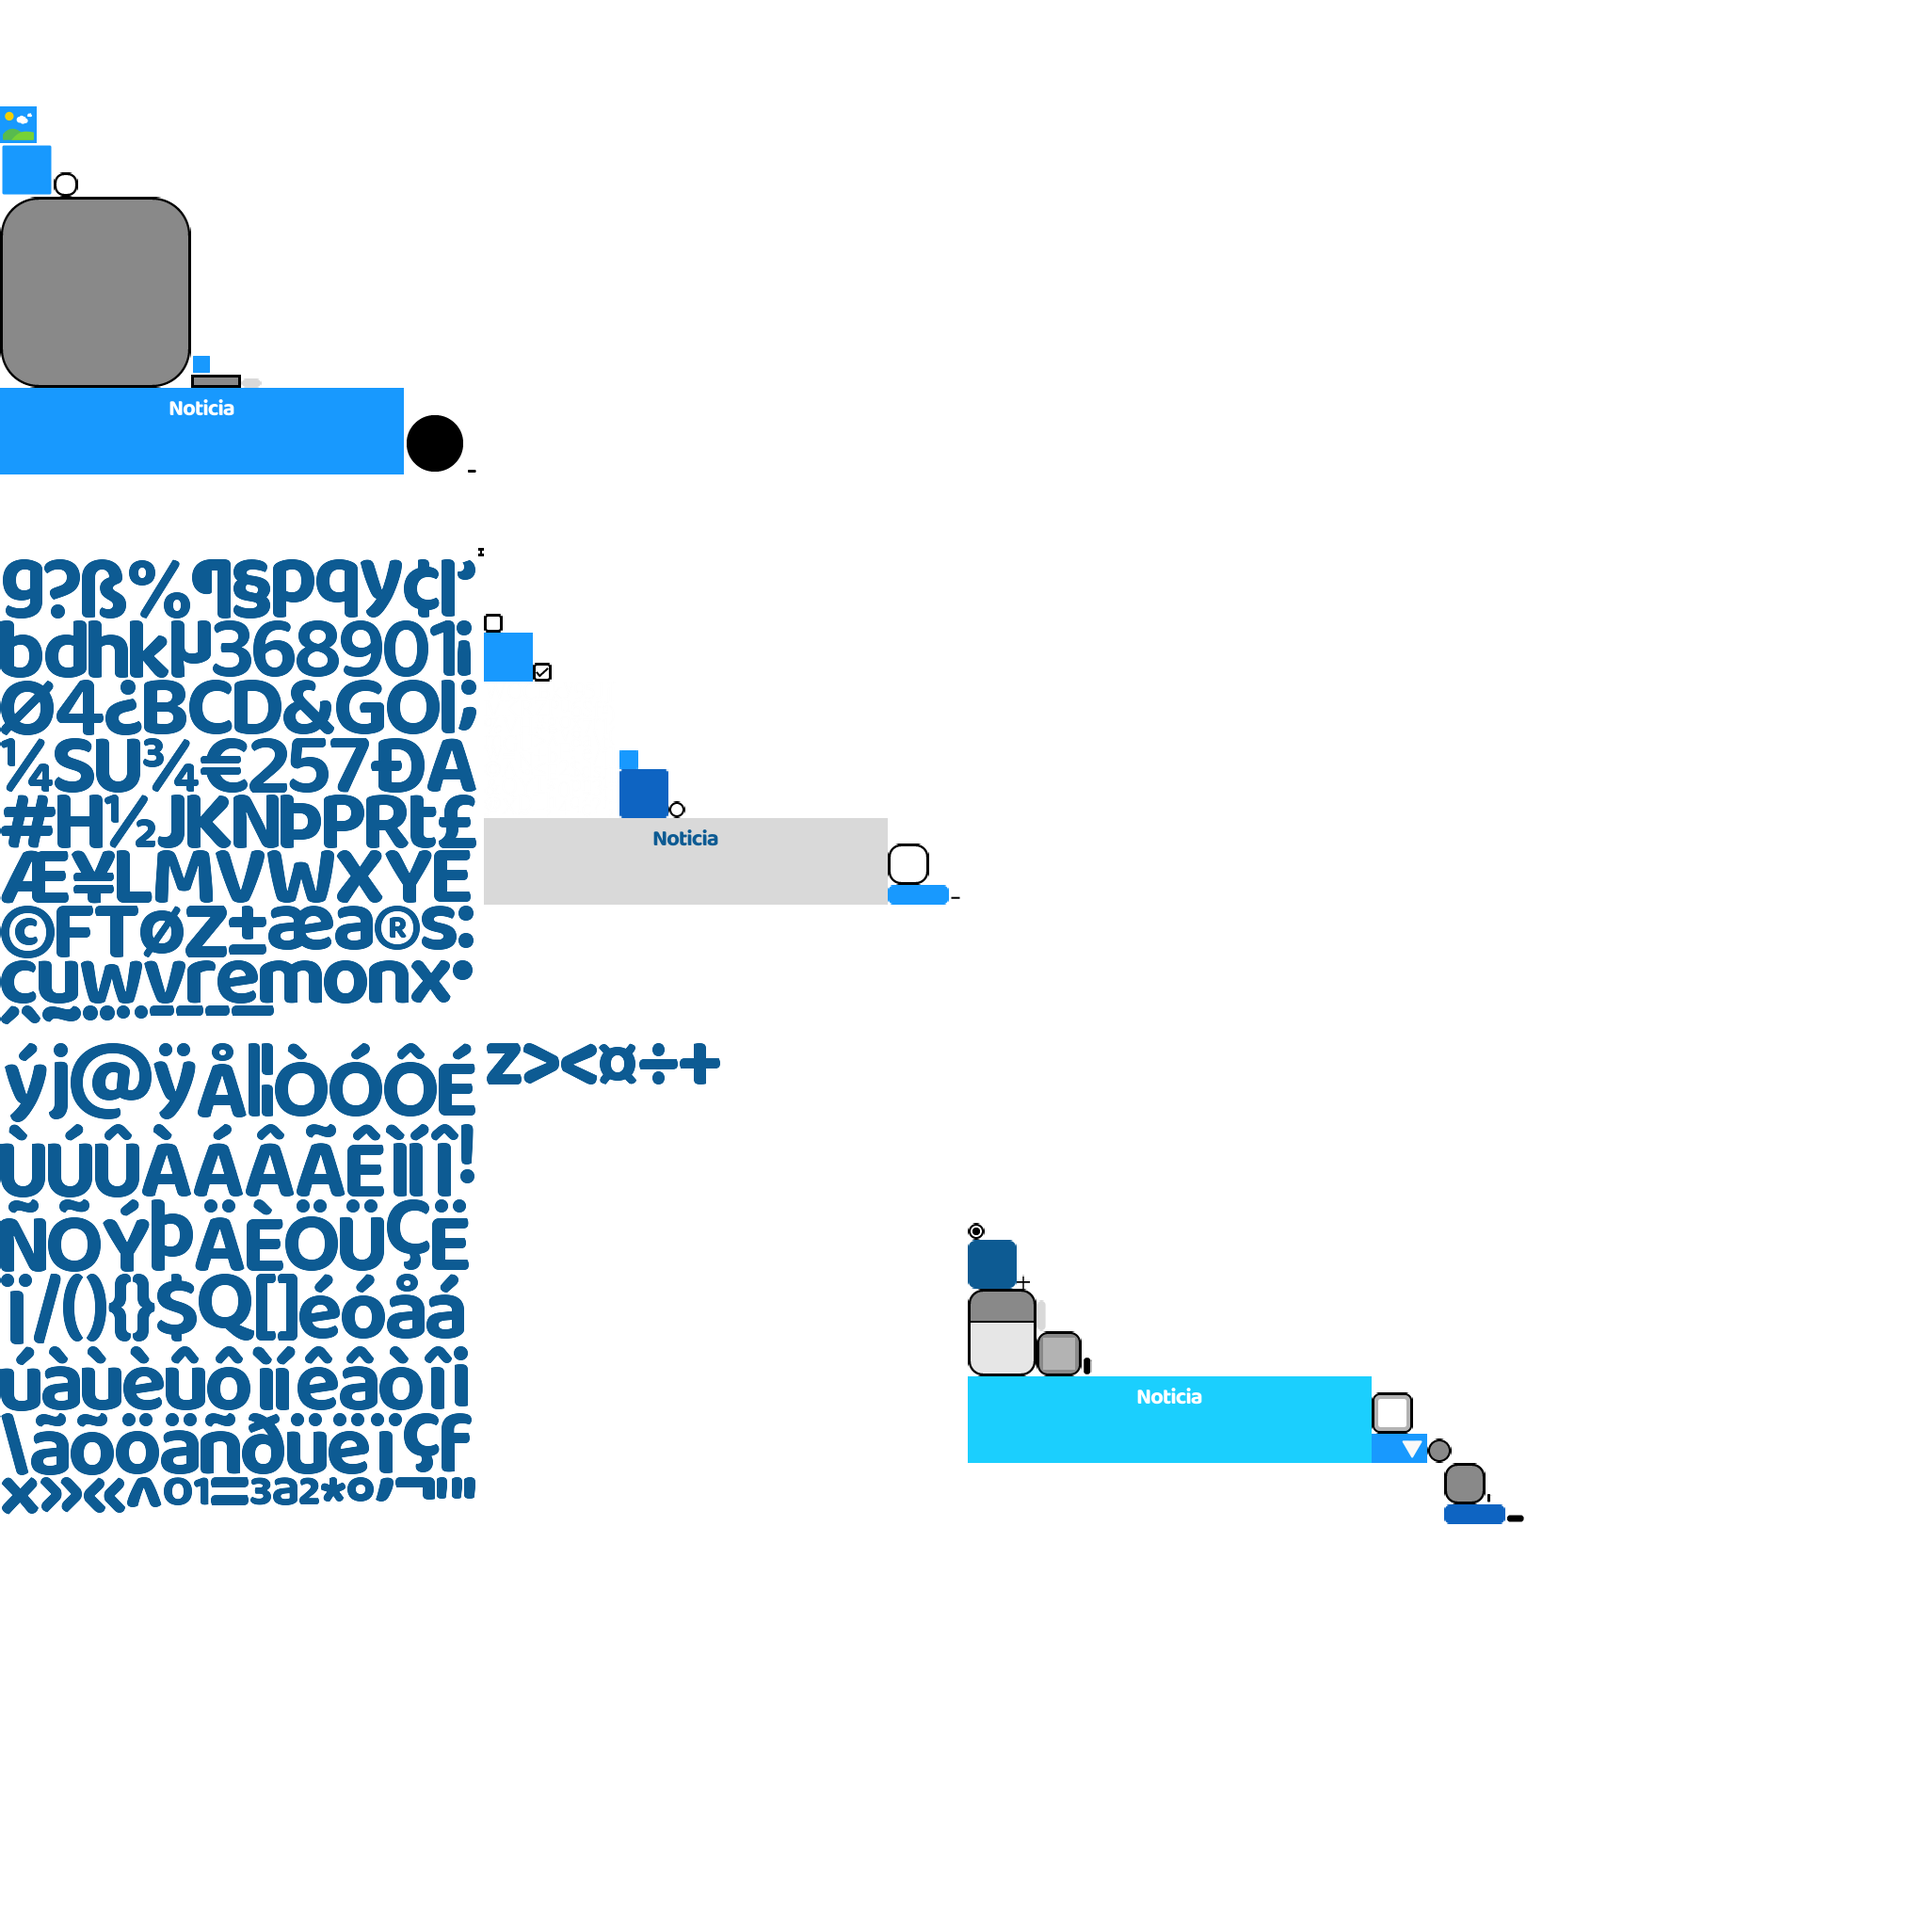
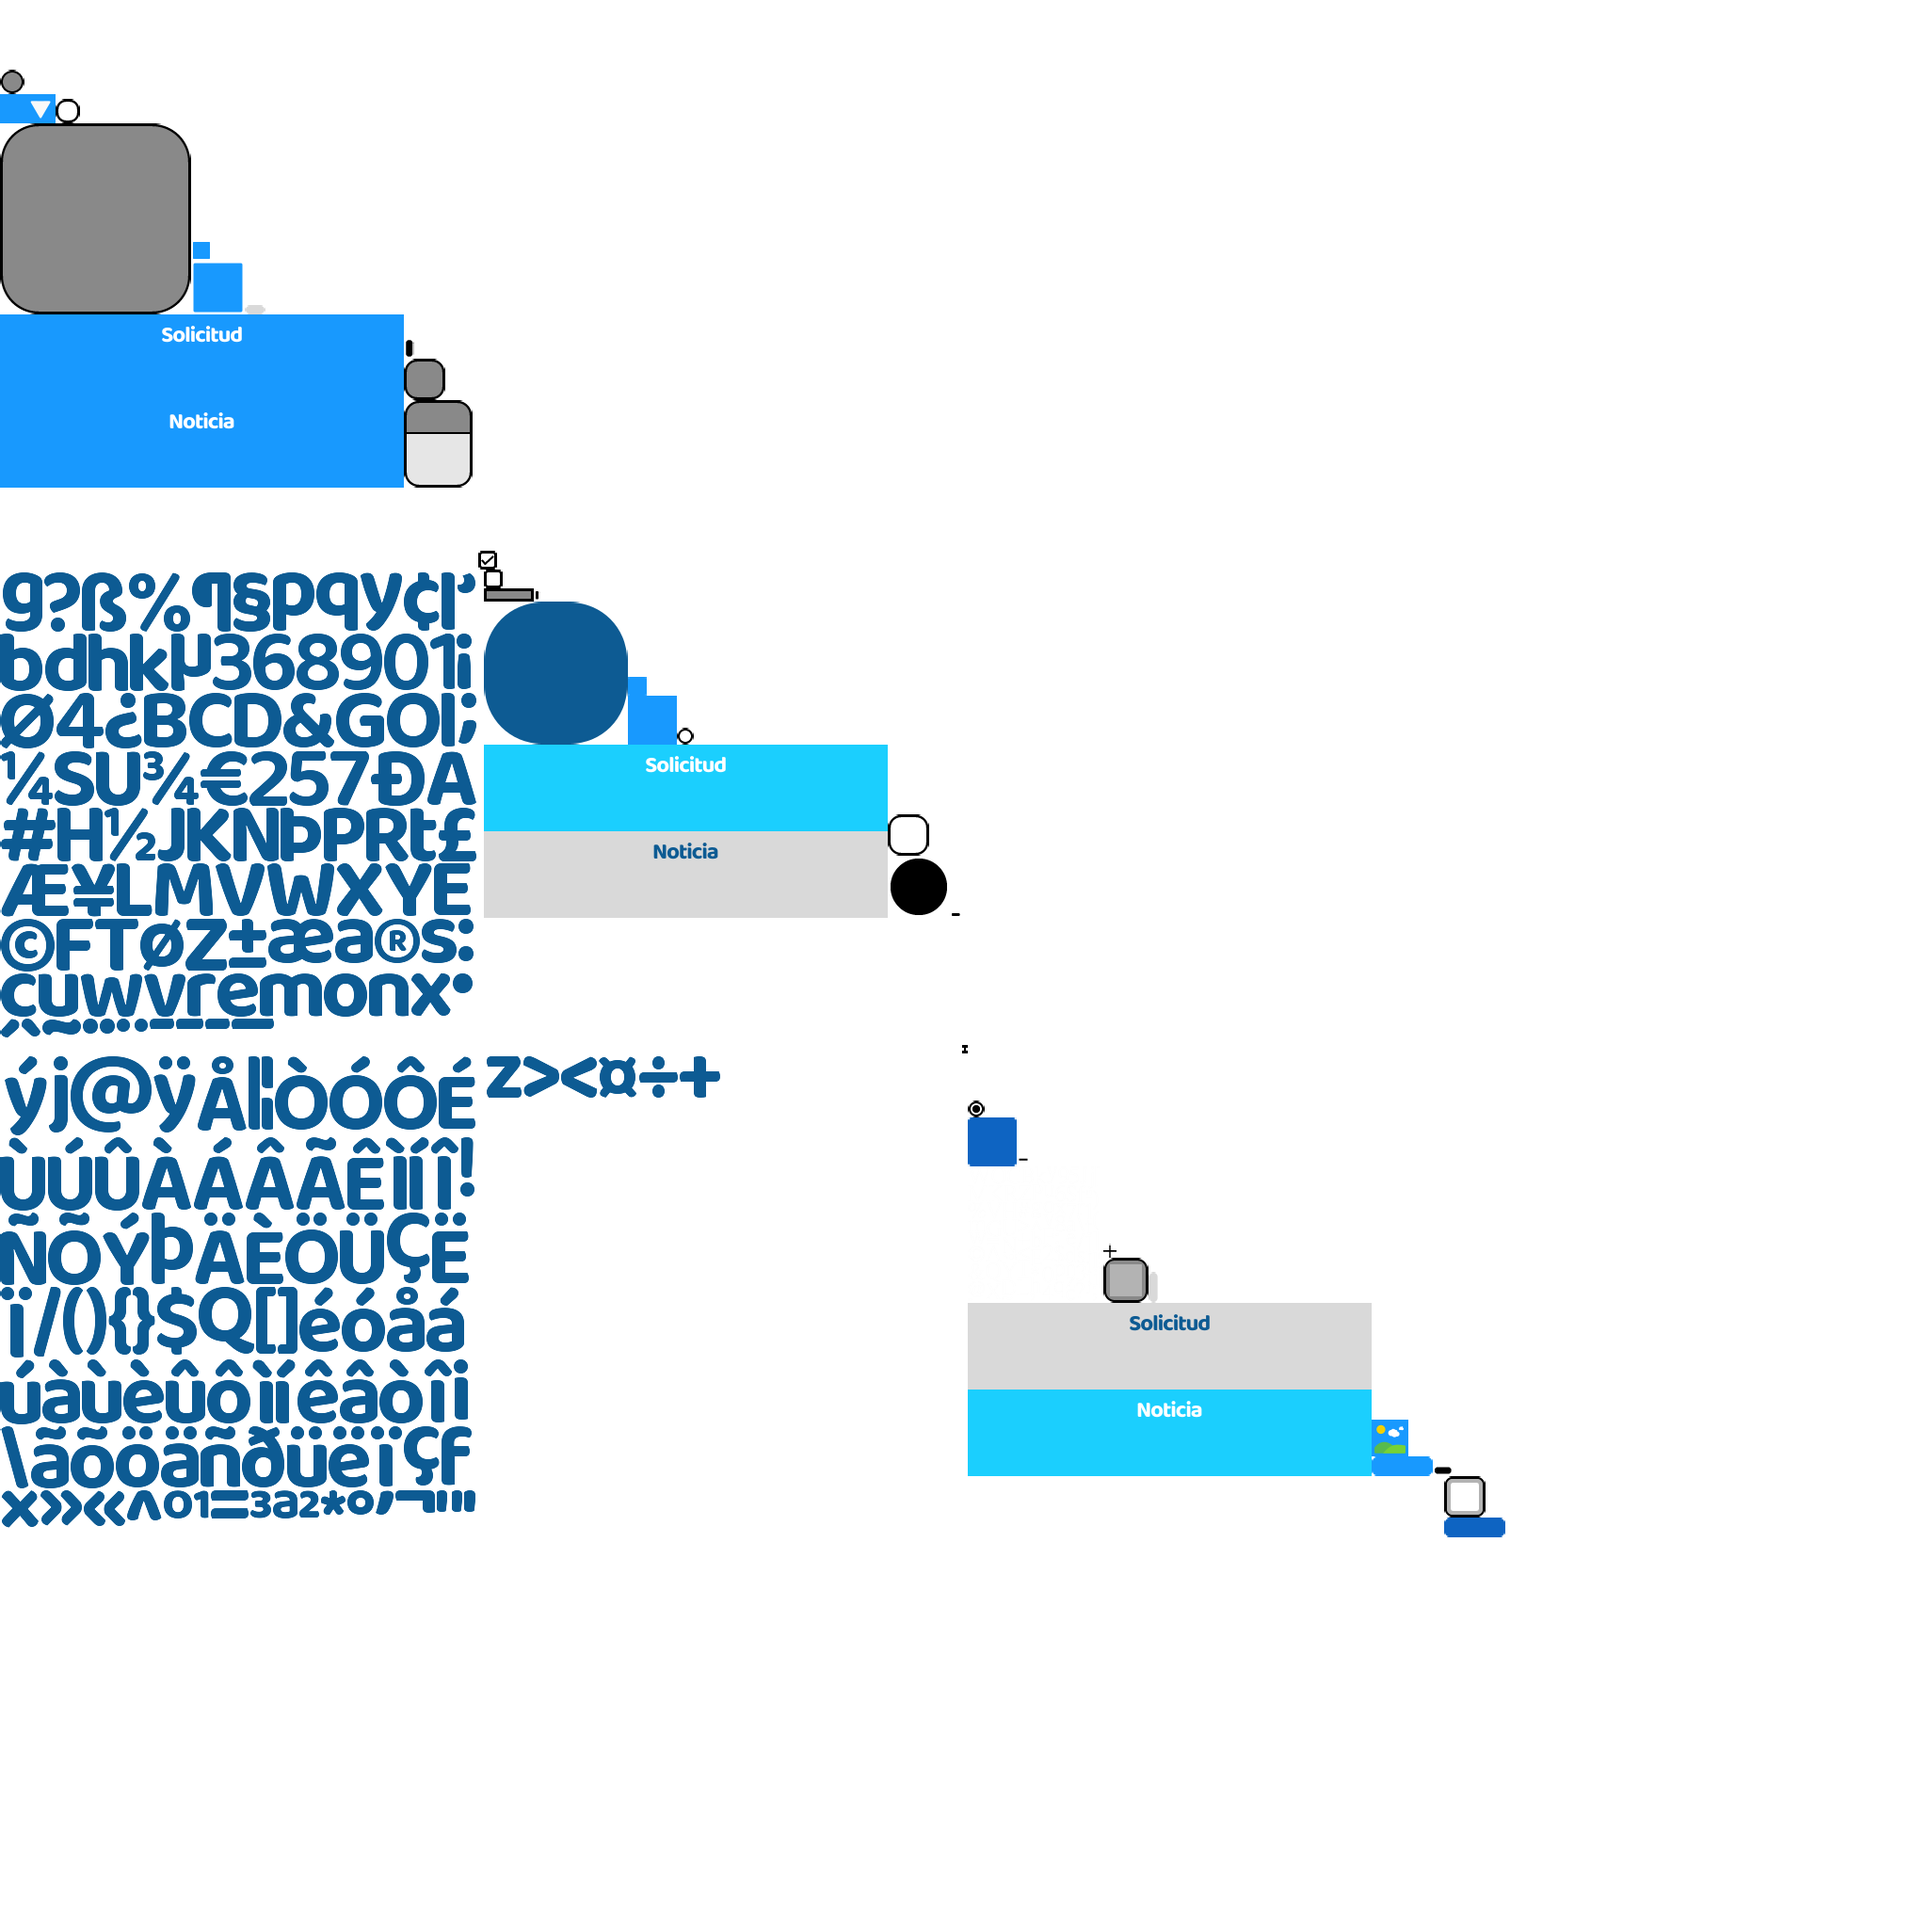
notificaciones jugador

Changed region(s): [[0.0, 0.2812, 0.5, 0.8125], [0.0, 0.0312, 0.25, 0.25], [0.5, 0.5625, 0.7812, 0.8125]]

diff --git a/core/src/main/java/Juego/Vista/Notificaciones.java b/core/src/main/java/Juego/Vista/Notificaciones.java
@@ -7,6 +7,7 @@ import com.badlogic.gdx.graphics.Color;
 import com.badlogic.gdx.graphics.GL20;
 import com.badlogic.gdx.graphics.Texture;
 import com.badlogic.gdx.graphics.g2d.BitmapFont;
+import com.badlogic.gdx.graphics.g2d.GlyphLayout;
 import com.badlogic.gdx.graphics.g2d.SpriteBatch;
 import com.badlogic.gdx.graphics.g2d.TextureRegion;
 import com.badlogic.gdx.scenes.scene2d.Stage;
@@ -33,9 +34,10 @@ public class Notificaciones implements Screen, Fuentes {
     private Stage stage; 
     private Skin skin;
     
+    private Label titulo;
+    
     private VerticalGroup grupo;
-    private Texture fondoNotif = new Texture (Gdx.files.internal("BGREcomendaciones.png"));
-    private ImageButton boton;
+    private Texture campana = new Texture (Gdx.files.internal("NotifBell.png"));
     private ScrollPane scroll;
     
 
@@ -53,6 +55,10 @@ public class Notificaciones implements Screen, Fuentes {
         stage = new Stage(new ScreenViewport());
         Gdx.input.setInputProcessor(stage);
         skin = new Skin(Gdx.files.internal("CustumUI/UIRec.json"));
+        
+        titulo = new Label("NOTIFICACIONES", Fuentes.titulos);
+        titulo.setPosition(295, 600);
+        
         ImageTextButton boton1 = new ImageTextButton("MIT descubre nuevo material que podría destronar\n"
                                                                                         + "al plástico como material de preferencia por las\n"
                                                                                         + "grandes compañias...  Seguir leyendo", skin, "noticia");
@@ -66,8 +72,8 @@ public class Notificaciones implements Screen, Fuentes {
                                                                                         + "al plástico como material de preferencia por las\n"
                                                                                         + "grandes compañias...  Seguir leyendo", skin, "noticia");
         
-        ImageTextButton boton5 = new ImageTextButton("otro texto", skin, "noticia");
-        ImageTextButton boton6 = new ImageTextButton("el último", skin, "noticia");
+        ImageTextButton boton5 = new ImageTextButton("¡Tu diseño ha sido aceptado!", skin, "solicitud");
+        ImageTextButton boton6 = new ImageTextButton("¡Tu diseño ha sido aceptado!", skin, "solicitud");
         grupo = new VerticalGroup();
         grupo.space(20);
         grupo.addActor(boton1);
@@ -77,8 +83,10 @@ public class Notificaciones implements Screen, Fuentes {
         grupo.addActor(boton5);
         grupo.addActor(boton6);
         scroll = new ScrollPane(grupo, skin, "notificaciones");
-        scroll.setPosition(100, 100);
-        scroll.setSize(500, 500);
+        scroll.setPosition(75, 67);
+        scroll.setSize(550, 492);
+        
+        stage.addActor(titulo);
         stage.addActor(scroll);
         
     }
@@ -90,6 +98,7 @@ public class Notificaciones implements Screen, Fuentes {
 
         // Start drawing with SpriteBatch
         batch.begin();
+        batch.draw(campana, 692, 109);
         batch.end();
         stage.act(Gdx.graphics.getDeltaTime());
         stage.draw();
